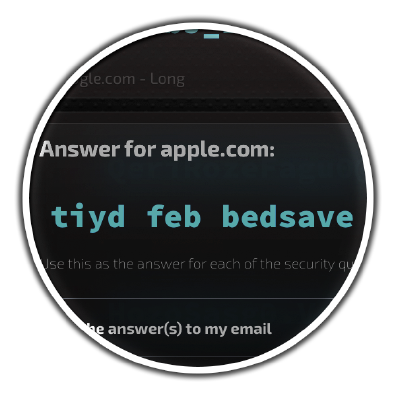
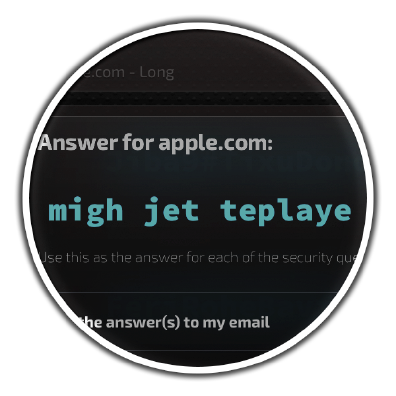
MPAlgorithm V2: handle multi-byte UTF-8 correctly by counting bytes, not characters.

diff --git a/Sources/MPAlgorithmV0.m b/Sources/MPAlgorithmV0.m
@@ -73,7 +73,7 @@
     return [(id<MPAlgorithm>)other version] == [self version];
 }
 
-- (BOOL)migrateUser:(MPUserEntity *)user inContext:(NSManagedObjectContext *)moc {
+- (BOOL)tryMigrateUser:(MPUserEntity *)user inContext:(NSManagedObjectContext *)moc {
 
     NSError *error = nil;
     NSFetchRequest *migrationRequest = [NSFetchRequest fetchRequestWithEntityName:NSStringFromClass( [MPSiteEntity class] )];
@@ -84,15 +84,15 @@
         return NO;
     }
 
-    BOOL requiresExplicitMigration = NO;
+    BOOL success = YES;
     for (MPSiteEntity *migrationSite in migrationSites)
-        if (![migrationSite migrateExplicitly:NO])
-            requiresExplicitMigration = YES;
+        if (![migrationSite tryMigrateExplicitly:NO])
+            success = NO;
 
-    return requiresExplicitMigration;
+    return success;
 }
 
-- (BOOL)migrateSite:(MPSiteEntity *)site explicit:(BOOL)explicit {
+- (BOOL)tryMigrateSite:(MPSiteEntity *)site explicit:(BOOL)explicit {
 
     if (site.version != [self version] - 1)
         // Only migrate from previous version.
@@ -364,11 +364,11 @@
 - (NSString *)generateLoginForSiteNamed:(NSString *)name usingKey:(MPKey *)key {
 
     return [self generateContentForSiteNamed:name ofType:MPSiteTypeGeneratedName withCounter:1
-                                                 variant:MPSiteVariantLogin context:nil usingKey:key];
+                                     variant:MPSiteVariantLogin context:nil usingKey:key];
 }
 
 - (NSString *)generatePasswordForSiteNamed:(NSString *)name ofType:(MPSiteType)type withCounter:(NSUInteger)counter
-              usingKey:(MPKey *)key {
+                                  usingKey:(MPKey *)key {
 
     return [self generateContentForSiteNamed:name ofType:type withCounter:counter
                                      variant:MPSiteVariantPassword context:nil usingKey:key];
@@ -381,7 +381,7 @@
 }
 
 - (NSString *)generateContentForSiteNamed:(NSString *)name ofType:(MPSiteType)type withCounter:(NSUInteger)counter
-              variant:(MPSiteVariant)variant context:(NSString *)context usingKey:(MPKey *)key {
+                                  variant:(MPSiteVariant)variant context:(NSString *)context usingKey:(MPKey *)key {
 
     // Determine the seed whose bytes will be used for calculating a password
     uint32_t ncounter = htonl( counter ), nnameLength = htonl( name.length ), ncontextLength = htonl( context.length );
@@ -396,9 +396,9 @@
             nameLengthBytes,
             [name dataUsingEncoding:NSUTF8StringEncoding],
             counterBytes,
-            context? contextLengthBytes: nil,
+                    context? contextLengthBytes: nil,
             [context dataUsingEncoding:NSUTF8StringEncoding],
-            nil]
+                    nil]
             hmacWith:PearlHashSHA256 key:key.keyData];
     trc( @"seed is: %@", [seed encodeHex] );
     const char *seedBytes = seed.bytes;
@@ -678,7 +678,7 @@
 }
 
 - (void)importProtectedPassword:(NSString *)protectedContent protectedByKey:(MPKey *)importKey
-                                                                   intoSite:(MPSiteEntity *)site usingKey:(MPKey *)siteKey {
+                       intoSite:(MPSiteEntity *)site usingKey:(MPKey *)siteKey {
 
     NSAssert( [siteKey.keyID isEqualToData:site.user.keyID], @"Site does not belong to current user." );
     switch (site.type) {

diff --git a/Sources/MPAlgorithmV2.m b/Sources/MPAlgorithmV2.m
@@ -15,14 +15,15 @@
 //  Copyright 2012 lhunath (Maarten Billemont). All rights reserved.
 //
 
-#import "MPAlgorithmV1.h"
+#import <objc/runtime.h>
+#import "MPAlgorithmV2.h"
 #import "MPEntities.h"
 
-@implementation MPAlgorithmV1
+@implementation MPAlgorithmV2
 
 - (NSUInteger)version {
 
-    return 1;
+    return 2;
 }
 
 - (BOOL)tryMigrateSite:(MPSiteEntity *)site explicit:(BOOL)explicit {
@@ -32,7 +33,7 @@
         return NO;
 
     if (!explicit) {
-        if (site.type & MPSiteTypeClassGenerated) {
+        if (site.type & MPSiteTypeClassGenerated && site.name.length != [site.name dataUsingEncoding:NSUTF8StringEncoding].length) {
             // This migration requires explicit permission for types of the generated class.
             site.requiresExplicitMigration = YES;
             return NO;
@@ -49,20 +50,23 @@
                                   variant:(MPSiteVariant)variant context:(NSString *)context usingKey:(MPKey *)key {
 
     // Determine the seed whose bytes will be used for calculating a password
-    uint32_t ncounter = htonl( counter ), nnameLength = htonl( name.length ), ncontextLength = htonl( context.length );
+    NSData *nameBytes = [name dataUsingEncoding:NSUTF8StringEncoding];
+    NSData *contextBytes = [context dataUsingEncoding:NSUTF8StringEncoding];
+    uint32_t ncounter = htonl( counter ), nnameLength = htonl( nameBytes.length ), ncontextLength = htonl( contextBytes.length );
     NSData *counterBytes = [NSData dataWithBytes:&ncounter length:sizeof( ncounter )];
     NSData *nameLengthBytes = [NSData dataWithBytes:&nnameLength length:sizeof( nnameLength )];
     NSData *contextLengthBytes = [NSData dataWithBytes:&ncontextLength length:sizeof( ncontextLength )];
     NSString *scope = [self scopeForVariant:variant];
+    NSData *scopeBytes = [scope dataUsingEncoding:NSUTF8StringEncoding];
     trc( @"seed from: hmac-sha256(%@, %@ | %@ | %@ | %@)",
             [[key keyID] encodeHex], scope, [nameLengthBytes encodeHex], name, [counterBytes encodeHex] );
     NSData *seed = [[NSData dataByConcatenatingDatas:
-            [scope dataUsingEncoding:NSUTF8StringEncoding],
+            scopeBytes,
             nameLengthBytes,
-            [name dataUsingEncoding:NSUTF8StringEncoding],
+            nameBytes,
             counterBytes,
                     context? contextLengthBytes: nil,
-            [context dataUsingEncoding:NSUTF8StringEncoding],
+            contextBytes,
                     nil]
             hmacWith:PearlHashSHA256 key:key.keyData];
     trc( @"seed is: %@", [seed encodeHex] );

diff --git a/Sources/MPEntities.m b/Sources/MPEntities.m
@@ -134,17 +134,19 @@
             self.loginName, self.requiresExplicitMigration );
 }
 
-- (BOOL)migrateExplicitly:(BOOL)explicit {
+- (BOOL)tryMigrateExplicitly:(BOOL)explicit {
 
-    while (self.version < MPAlgorithmDefaultVersion)
-        if ([MPAlgorithmForVersion( self.version + 1 ) migrateSite:self explicit:explicit])
-            inf( @"%@ migration to version: %ld succeeded for site: %@",
-                    explicit? @"Explicit": @"Automatic", (long)self.version + 1, self );
-        else {
+    while (self.version < MPAlgorithmDefaultVersion) {
+        NSUInteger toVersion = self.version + 1;
+        if (![MPAlgorithmForVersion( toVersion ) tryMigrateSite:self explicit:explicit]) {
             wrn( @"%@ migration to version: %ld failed for site: %@",
-                    explicit? @"Explicit": @"Automatic", (long)self.version + 1, self );
+                    explicit? @"Explicit": @"Automatic", (long)toVersion, self );
             return NO;
         }
+
+        inf( @"%@ migration to version: %ld succeeded for site: %@",
+                explicit? @"Explicit": @"Automatic", (long)toVersion, self );
+    }
 
     return YES;
 }

diff --git a/Sources/MPAlgorithm.h b/Sources/MPAlgorithm.h
@@ -19,7 +19,7 @@
 #import "MPStoredSiteEntity.h"
 #import "MPGeneratedSiteEntity.h"
 
-#define MPAlgorithmDefaultVersion 1
+#define MPAlgorithmDefaultVersion 2
 #define MPAlgorithmDefault MPAlgorithmForVersion(MPAlgorithmDefaultVersion)
 
 id<MPAlgorithm> MPAlgorithmForVersion(NSUInteger version);
@@ -43,8 +43,8 @@ NSString *NSStringFromTimeToCrack(TimeToCrack timeToCrack);
 
 @required
 - (NSUInteger)version;
-- (BOOL)migrateUser:(MPUserEntity *)user inContext:(NSManagedObjectContext *)moc;
-- (BOOL)migrateSite:(MPSiteEntity *)site explicit:(BOOL)explicit;
+- (BOOL)tryMigrateUser:(MPUserEntity *)user inContext:(NSManagedObjectContext *)moc;
+- (BOOL)tryMigrateSite:(MPSiteEntity *)site explicit:(BOOL)explicit;
 
 - (MPKey *)keyForPassword:(NSString *)password ofUserNamed:(NSString *)userName;
 - (MPKey *)keyFromKeyData:(NSData *)keyData;

diff --git a/Sources/MPPasswordsViewController.m b/Sources/MPPasswordsViewController.m
@@ -74,6 +74,18 @@
     [self updatePasswords];
 }
 
+- (void)viewDidAppear:(BOOL)animated {
+
+    [super viewDidAppear:animated];
+
+    [MPiOSAppDelegate managedObjectContextPerformBlock:^(NSManagedObjectContext *context) {
+        MPUserEntity *activeUser = [[MPiOSAppDelegate get] activeUserInContext:context];
+        if (![MPAlgorithmDefault tryMigrateUser:activeUser inContext:context])
+            [PearlOverlay showTemporaryOverlayWithTitle:@"Some Sites Need Upgrade" dismissAfter:2];
+        [context saveToStore];
+    }];
+}
+
 - (void)viewWillDisappear:(BOOL)animated {
 
     [super viewWillDisappear:animated];

diff --git a/Sources/MPAlgorithmV2.h b/Sources/MPAlgorithmV2.h
@@ -1,0 +1,21 @@
+/**
+ * Copyright Maarten Billemont (http://www.lhunath.com, lhunath@lyndir.com)
+ *
+ * See the enclosed file LICENSE for license information (LGPLv3). If you did
+ * not receive this file, see http://www.gnu.org/licenses/lgpl-3.0.txt
+ *
+ * @author   Maarten Billemont <lhunath@lyndir.com>
+ * @license  http://www.gnu.org/licenses/lgpl-3.0.txt
+ */
+
+//
+//  MPAlgorithmV1
+//
+//  Created by Maarten Billemont on 17/07/12.
+//  Copyright 2012 lhunath (Maarten Billemont). All rights reserved.
+//
+
+#import "MPAlgorithmV1.h"
+
+@interface MPAlgorithmV2 : MPAlgorithmV1
+@end

diff --git a/Sources/MPPasswordCell.m b/Sources/MPPasswordCell.m
@@ -317,7 +317,7 @@
 - (IBAction)doUpgrade:(UIButton *)sender {
 
     [MPiOSAppDelegate managedObjectContextPerformBlock:^(NSManagedObjectContext *context) {
-        if (![[self siteInContext:context] migrateExplicitly:YES]) {
+        if (![[self siteInContext:context] tryMigrateExplicitly:YES]) {
             [PearlOverlay showTemporaryOverlayWithTitle:@"Couldn't Upgrade Site" dismissAfter:2];
             return;
         }

diff --git a/Sources/MPAlgorithm.m b/Sources/MPAlgorithm.m
@@ -35,6 +35,9 @@ id<MPAlgorithm> MPAlgorithmDefaultForBundleVersion(NSString *bundleVersion) {
     if (PearlCFBundleVersionCompare( bundleVersion, @"1.3" ) == NSOrderedAscending)
         // Pre-1.3
         return MPAlgorithmForVersion( 0 );
+    if (PearlCFBundleVersionCompare( bundleVersion, @"2.1" ) == NSOrderedAscending)
+        // Pre-2.1
+        return MPAlgorithmForVersion( 1 );
 
     return MPAlgorithmDefault;
 }

diff --git a/Sources/MPEntities.h b/Sources/MPEntities.h
@@ -36,7 +36,7 @@
 @property(readonly) id<MPAlgorithm> algorithm;
 
 - (NSUInteger)use;
-- (BOOL)migrateExplicitly:(BOOL)explicit;
+- (BOOL)tryMigrateExplicitly:(BOOL)explicit;
 - (NSString *)resolveLoginUsingKey:(MPKey *)key;
 - (NSString *)resolvePasswordUsingKey:(MPKey *)key;
 - (void)resolveLoginUsingKey:(MPKey *)key result:(void ( ^ )(NSString *))result;
